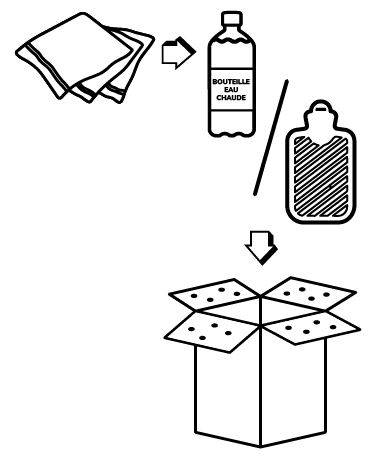
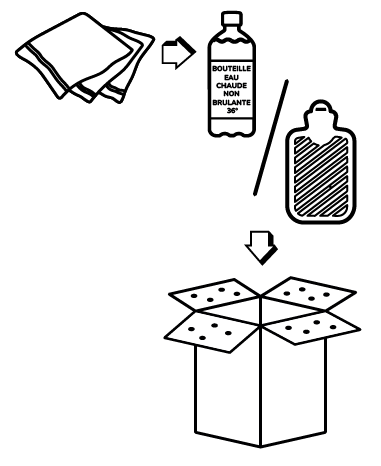
Corrections de contenu et passage en version 1.3.0
- app.json : version 1.1.0 -> 1.3.0
- 1_Reconnaitre : reformulation inclusive et coquille "ci-dessous"
- 2_PremiersGestes : mise en forme du texte sur la pièce calme, bouton orange
- 3_CentresSoins : fermeture du clavier au défilement et à la validation de la recherche
- 4_Protection : titres de sections, formulations inclusives, précisions sur l'hivernage
- 5_SaviezVous : régime alimentaire (insectes et larves)
- index : texte de pied de page
- centresSoins : département Corse (2B) et centres suisses

Changed region(s): [[0.5486, 0.1202, 0.664, 0.2704]]

diff --git a/src/app/4_Protection.tsx b/src/app/4_Protection.tsx
@@ -53,13 +53,13 @@ export default function PremiersGestes() {
       section2: "Création d'un passage entre les jardins",
       section3:
         "Toute l'année, mettez à disposition de l'eau dans un bac peu profond.",
-      section4: "Les croquettes",
+      section4: "La nourriture",
       section5: "Construction d'une cantine avec plan",
       section6: "Condamnation des trous et des évacuations",
       section7:
         "Aménager une rampe sur\nles plans d'eau et les rebords de piscines",
       section8:
-        "Conseil pour les administrations, les sociétés de construction immobilier...",
+        "Conseil pour les administrations, les sociétés de construction immobilière...",
     },
     en: {
       title: "4. PROTECTING\nHEDGEHOGS",
@@ -69,7 +69,7 @@ export default function PremiersGestes() {
         "Volunteering, in-kind donations, hedgehog sponsorships and solidarity funds",
       section2: "Creating a passage between gardens",
       section3: "All year round, provide water in a shallow tray.",
-      section4: "Offer cat kibble",
+      section4: "The food",
       section5: "Build a feeding station with a plan",
       section6: "Closing off holes, drains and openings...",
       section7: "Install a ramp at ponds and along swimming pool edges",
@@ -145,7 +145,7 @@ export default function PremiersGestes() {
               <Text style={styles.instructionTextBullet}>{"▶ "}</Text>
               <Text style={[styles.instructionText, { flex: 1 }]}>
                 {copy(
-                  "D'un commun accord avec votre voisine ou voisin, aménagez un passage en forant un trou de 15 x 15 cm dans la clôture ou en coupant le grillage. Nos zones urbaines sont cloisonnées par des clôtures et des barrières trop hautes et trop proche du sol pour pouvoir s'y glisser par en-dessous. Ces passages entre les jardins limiteront les traversées de nos routes.",
+                  "D'un commun accord avec votre voisin.e, aménagez un passage en forant un trou de 15 x 15 cm dans la clôture ou en coupant le grillage. Nos zones urbaines sont cloisonnées par des clôtures et des barrières trop hautes et trop proche du sol pour pouvoir s'y glisser par en-dessous. Ces passages entre les jardins limiteront les traversées de nos routes.",
                   "With your neighbour's agreement, make a 15 x 15 cm opening in the fence or cut the wire mesh. Urban areas are increasingly divided by barriers and fences that are too high and too close to the ground for hedgehogs to squeeze underneath. These passages between gardens will reduce the need for hedgehogs to cross roads.",
                 )}
               </Text>
@@ -199,7 +199,7 @@ export default function PremiersGestes() {
               <Text style={styles.instructionTextBullet}>{"▶ "}</Text>
               <Text style={[styles.instructionText, { flex: 1 }]}>
                 {copy(
-                  "Même en hiver, proposez de l'eau : les hérissons n'hivernent pas toute la saison et se réveillent. Vérifiez que l'eau ne soit pas gelée.",
+                  "Même en hiver, proposez de l'eau : les hérissons n'hivernent pas d'une seule traite du mois d'octobre jusqu'au mois de mars/avril, et peuvent se réveiller. Vérifiez que l'eau ne soit pas gelée.",
                   "Offer water in winter too: hedgehogs do not hibernate for the entire season and may wake up. Check that the water has not frozen.",
                 )}
               </Text>
@@ -242,7 +242,7 @@ export default function PremiersGestes() {
             <Text style={styles.instructionTextBullet}>{"▶ "}</Text>
             <Text style={[styles.instructionText, { flex: 1 }]}>
               {copy(
-                "Si vous souhaitez les aider à l'entrée ou à la sortie de l'hiver et en période de sécheresse, de canicule ou toute l'année:",
+                "Si vous souhaitez les aider à l'entrée (Automne) à la sortie (Printemps)de l'hiver et en période de sécheresse, de canicule ou toute l'année:",
                 "If you want to help them at the start or end of winter and during periods of drought, heatwave or all year round:",
               )}
             </Text>

diff --git a/src/app/3_CentresSoins.tsx b/src/app/3_CentresSoins.tsx
@@ -5,6 +5,7 @@ import { CENTERS_DATA } from "../data/centresSoins";
 
 import {
   Image,
+  Keyboard,
   Linking,
   Platform,
   SafeAreaView,
@@ -50,7 +51,7 @@ export default function CentresSoins() {
       button2: "2. LES PREMIERS GESTES",
       address: "adresse et heure de découverte,",
       weight:
-        "poids ou à défaut, estimation visuelle de la taille du hérisson : mandarine, citron, orange ou pamplemousse,",
+        "poids ou à défaut, estimation visuelle de la taille du hérisson : mandarine, gros citron, orange ou pamplemousse,",
       behavior:
         "comportement : apathique ou mobile, \nse met-il en boule quand on s'approche ? \na-t-il une respiration bruyante, \ntousse-t-il ?,",
       injuries:
@@ -155,6 +156,8 @@ export default function CentresSoins() {
         ref={scrollViewRef}
         style={styles.scrollView}
         contentContainerStyle={styles.scrollContent}
+        keyboardDismissMode="on-drag"
+        keyboardShouldPersistTaps="handled"
       >
         <Text style={styles.introText}>{t.intro}</Text>
 
@@ -276,6 +279,8 @@ export default function CentresSoins() {
             }
             value={searchQuery}
             onChangeText={setSearchQuery}
+            returnKeyType="search"
+            onSubmitEditing={() => Keyboard.dismiss()}
           />
           <Text style={styles.searchLabel}>
             {"\n"}

diff --git a/src/app/2_PremiersGestes.tsx b/src/app/2_PremiersGestes.tsx
@@ -317,10 +317,12 @@ export default function PremiersGestes() {
                 <>
                   Posez le <Text style={styles.bold}>carton au sol</Text> dans
                   une <Text style={styles.bold}>pièce</Text>{" "}
+                  <Text style={styles.bold}>calme </Text>
+                  (par exemple,
                   <Text style={styles.bold}>
-                    calme (par exemple une salle de bain ou grand WC)
-                  </Text>
-                  , à l&apos;
+                    une salle de bain ou grand WC),
+                  </Text>{" "}
+                  à l&apos;
                   <Text style={styles.bold}>abri</Text> des{" "}
                   <Text style={styles.bold}>mouches</Text> et{" "}
                   <Text style={styles.bold}>sans autres animaux</Text> ou{" "}
@@ -338,7 +340,7 @@ export default function PremiersGestes() {
                 <>
                   Appelez le <Text style={styles.bold}>centre de soins</Text> le{" "}
                   <Text style={styles.bold}>plus proche</Text> en cliquant sur
-                  le bouton ci-dessous.
+                  le bouton orange ci-dessous.
                 </>
               ) : (
                 "Call the nearest wildlife care center using the button below."

diff --git a/src/app/5_SaviezVous.tsx b/src/app/5_SaviezVous.tsx
@@ -285,7 +285,7 @@ export default function PremiersGestes() {
             <Text style={styles.instructionTextBullet}> {"▶"} </Text>
             <Text style={[styles.instructionText, { flex: 1 }]}>
               {copy(
-                "On pense à tord que le hérisson se nourrit essentiellement de limaces, d'escargots et de vers de terre. Alors que son régime devrait principalement être composé... d'insectes. C'est donc un insectivore ! \nIl peut également se nourrir de petits mammifères morts et de fruits tombés \nau sol.",
+                "On pense à tord que le hérisson se nourrit essentiellement de limaces, d'escargots et de vers de terre. Alors que son régime devrait principalement être composé... d'insectes et de ses larves. C'est donc un insectivore ! \nIl peut également se nourrir de petits mammifères morts et de fruits tombés \nau sol.",
                 "It is wrongly believed that the hedgehog feeds mainly on slugs, snails and earthworms. While its diet is mainly composed of insects and is therefore an insectivore! it can also feed on small mammals and fallen fruits.",
               )}
             </Text>

diff --git a/src/app/1_Reconnaitre.tsx b/src/app/1_Reconnaitre.tsx
@@ -159,7 +159,7 @@ export default function Reconnaitre() {
               <Text style={[styles.bulletText, { flex: 1 }]}>
                 <Text style={{ fontWeight: "bold", color: COLORS.red }}>
                   {copy(
-                    "Parcontre, en automne et en hiver, il faut impérativement mettre ce ou ces orphelins d'automne en sécurité. Cliquez sur le bouton rouge ci-desous : les premiers gestes puis contacter un centre de soins.",
+                    "Parcontre, en automne et en hiver, il faut impérativement mettre ce.s orphelin.s d'automne en sécurité. Cliquez sur le bouton rouge ci-dessous : les premiers gestes puis contacter un centre de soins.",
                     "In autumn and winter, any orphaned hedgehog must be moved to safety immediately (tap the red button below for Category 2: First Aid).",
                   )}
                 </Text>

diff --git a/src/app/index.tsx b/src/app/index.tsx
@@ -42,7 +42,7 @@ export default function Page() {
         "Conseils aux entreprises, \nà l'administration et aux particuliers.",
       saviez: "LE SAVIEZ-VOUS ?",
       footer:
-        "Nov. 2026. Pour la protection des hérissons pensée par une humaine. Un concentré d'informations reposant sur la collaboration de citoyens.nes précieux.ses en partageant leurs connaissances. ",
+        "Nov. 2026. Pour la protection des hérissons imaginée par une humaine. Un concentré d'informations reposant sur la collaboration d'humains.nes précieux.ses qui partagent leurs connaissances. ",
     },
     en: {
       recognize: "RECOGNIZE\nA HEDGEHOG IN DISTRESS",

diff --git a/src/data/centresSoins.ts b/src/data/centresSoins.ts
@@ -355,7 +355,7 @@ export const CENTERS_DATA = [
   },
   {
     id: 47,
-    dept: "Corse",
+    dept: "2B Corse",
     city: "Olmeta-di-Tuda",
     name: "U Pettirossu",
     phone: "07 88 83 70 22",
@@ -411,7 +411,7 @@ export const CENTERS_DATA = [
   },
   {
     id: 54,
-    dept: "VD",
+    dept: "SUISSE",
     city: "Le Vaud",
     name: "Zoo La Garenne",
     phone: "+41 22 366 11 14",
@@ -419,7 +419,7 @@ export const CENTERS_DATA = [
   },
   {
     id: 55,
-    dept: "VD",
+    dept: "SUISSE",
     city: "Chavornay",
     name: "ERMINEA",
     phone: "+41 24 565 37 99",
